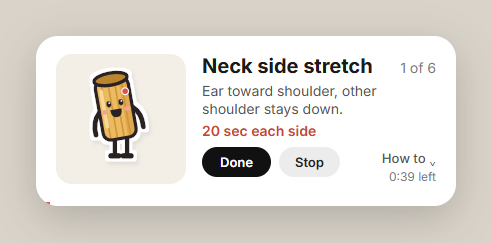
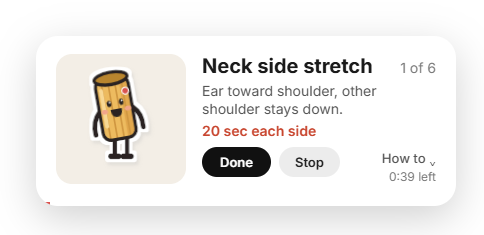
feat: smooth mascot motion and accessible transitions in v1.1.0

diff --git a/renderer/mascot.js b/renderer/mascot.js
@@ -6,7 +6,19 @@
   if (typeof document !== 'undefined' && !document.getElementById('noodle-mascot-css')) {
     const s = document.createElement('style');
     s.id = 'noodle-mascot-css';
-    s.textContent = '@keyframes noodleWave{from{transform:rotate(-12deg)}to{transform:rotate(14deg)}}.wavearm{animation:noodleWave .7s steps(2,end) infinite alternate}';
+    s.textContent = `
+      .mascot{overflow:visible}.mascot .motion-root{transform-box:fill-box;transform-origin:center bottom;animation:noodleBreathe 3.6s ease-in-out infinite}
+      .mascot .eyes{transform-box:fill-box;transform-origin:center;animation:noodleBlink 5.4s ease-in-out infinite}
+      .mascot.explicit-blink .eyes{animation:none}.mascot .wavearm{transform-box:view-box;transform-origin:var(--wave-origin,center);animation:noodleWave .82s cubic-bezier(.42,0,.25,1) infinite alternate}
+      .mascot.pose-walk .walk-arm-left,.mascot.pose-walk .walk-leg-right{transform-box:fill-box;transform-origin:top center;animation:noodleWalk .72s ease-in-out infinite alternate}
+      .mascot.pose-walk .walk-arm-right,.mascot.pose-walk .walk-leg-left{transform-box:fill-box;transform-origin:top center;animation:noodleWalk .72s ease-in-out infinite alternate-reverse}
+      .mascot.pose-walk .motion-root{animation:noodleWalkBob .72s ease-in-out infinite alternate}.mascot .pose-body{transform-box:view-box;transform-origin:100px 144px}.mascot.pose-neck_side .motion-root,.mascot.pose-doorway .motion-root{animation:none}.mascot.pose-neck_side .pose-body{animation:noodleNeck 3.4s ease-in-out infinite alternate}
+      .mascot.pose-chin_tuck .face-wrap{transform-box:fill-box;transform-origin:center;animation:noodleChin 2.5s ease-in-out infinite}.mascot.pose-doorway .pose-body{animation:noodleLean 3s ease-in-out infinite}
+      @keyframes noodleWave{from{transform:rotate(-14deg)}to{transform:rotate(16deg)}}@keyframes noodleBreathe{0%,100%{transform:translateY(0) scaleY(1)}50%{transform:translateY(1px) scaleY(1.018)}}
+      @keyframes noodleBlink{0%,44%,48%,100%{transform:scaleY(1)}46%{transform:scaleY(.08)}}@keyframes noodleWalk{from{transform:rotate(-17deg)}to{transform:rotate(17deg)}}@keyframes noodleWalkBob{from{transform:translateY(0) rotate(-1deg)}to{transform:translateY(3px) rotate(1deg)}}
+      @keyframes noodleNeck{from{transform:rotate(-10deg)}to{transform:rotate(-6deg)}}@keyframes noodleChin{0%,34%,100%{transform:translateY(0)}50%,70%{transform:translateY(5px) scale(.96,1.04)}}@keyframes noodleLean{0%,100%{transform:rotate(12deg)}50%{transform:rotate(9deg) translateX(2px)}}
+      @media (prefers-reduced-motion:reduce){.mascot *{animation:none!important}.mascot .motion-root{transform:none!important}}
+    `;
     document.head.appendChild(s);
   }
 
@@ -19,14 +31,14 @@
     if (kind === 'blink') {
       eyes = [-ex, ex].map(d => `<path d="M${cx + d - 5} ${cy} Q${cx + d} ${cy + 6} ${cx + d + 5} ${cy}" fill="none" stroke="${INK}" stroke-width="3" stroke-linecap="round"/>`).join('');
     } else {
-      eyes = [-ex, ex].map(d => `<ellipse cx="${cx + d}" cy="${cy}" rx="4" ry="5.5" fill="${INK}"/><circle cx="${cx + d + 1.3}" cy="${cy - 2}" r="1.5" fill="#fff"/>`).join('');
+      eyes = `<g class="eyes">${[-ex, ex].map(d => `<ellipse cx="${cx + d}" cy="${cy}" rx="4" ry="5.5" fill="${INK}"/><circle cx="${cx + d + 1.3}" cy="${cy - 2}" r="1.5" fill="#fff"/>`).join('')}</g>`;
     }
     let mouth;
     if (kind === 'hello') mouth = `<ellipse cx="${cx}" cy="${cy + 18}" rx="6.5" ry="8" fill="${INK}"/>`;
     else if (kind === 'chin_tuck') mouth = `<path d="M${cx - 6} ${cy + 15} Q${cx} ${cy + 20} ${cx + 6} ${cy + 15}" fill="none" stroke="${INK}" stroke-width="3" stroke-linecap="round"/><path d="M${cx - 9} ${cy + 26} Q${cx} ${cy + 31} ${cx + 9} ${cy + 26}" fill="none" stroke="${INK}" stroke-width="2" stroke-linecap="round" opacity=".6"/>`;
     else mouth = `<path d="M${cx - 10} ${cy + 11} H${cx + 10} Q${cx + 10} ${cy + 25} ${cx} ${cy + 25} Q${cx - 10} ${cy + 25} ${cx - 10} ${cy + 11} Z" fill="${INK}"/>`;
     const blush = `<ellipse cx="${cx - 21}" cy="${cy + 13}" rx="6" ry="4" fill="${C.blush}"/><ellipse cx="${cx + 21}" cy="${cy + 13}" rx="6" ry="4" fill="${C.blush}"/>`;
-    return `<g transform="translate(${cx + dx} ${cy}) scale(${s}) translate(${-cx} ${-cy})">${blush}${eyes}${mouth}</g>`;
+    return `<g class="face-wrap"><g transform="translate(${cx + dx} ${cy}) scale(${s}) translate(${-cx} ${-cy})">${blush}${eyes}${mouth}</g></g>`;
   }
 
   function tube(x, w, n) {
@@ -45,7 +57,7 @@
     const view = o.crop ? o.crop.join(' ') : defaultView;
     const filter = o.nosticker ? '' : `<filter id="${id}" x="-25%" y="-25%" width="150%" height="150%"><feMorphology in="SourceAlpha" operator="dilate" radius="5" result="d"/><feFlood flood-color="#fff"/><feComposite in2="d" operator="in" result="w"/><feOffset in="d" dx="4" dy="6" result="o"/><feGaussianBlur in="o" stdDeviation="3" result="b"/><feColorMatrix in="b" type="matrix" values="0 0 0 0 .5 0 0 0 0 .5 0 0 0 0 .5 0 0 0 .32 0" result="sh"/><feMerge><feMergeNode in="sh"/><feMergeNode in="w"/><feMergeNode in="SourceGraphic"/></feMerge></filter>`;
     const size = o.size ? ` width="${o.size}" height="${o.size}"` : ' width="100%" height="100%"';
-    return `<svg xmlns="http://www.w3.org/2000/svg" viewBox="${view}"${size} style="display:block;overflow:visible"><defs>${filter}</defs><g${o.nosticker ? '' : ` filter="url(#${id})"`}>${inner}</g></svg>`;
+    return `<svg class="mascot pose-${o.motionPose || 'idle'}${o.explicitBlink ? ' explicit-blink' : ''}" xmlns="http://www.w3.org/2000/svg" viewBox="${view}"${size} style="display:block;overflow:visible"><defs>${filter}</defs><g${o.nosticker ? '' : ` filter="url(#${id})"`}><g class="motion-root">${inner}</g></g></svg>`;
   }
 
   function toni(pose = 'idle', faceKind = 'smile', o = {}) {
@@ -56,7 +68,7 @@
     let pre = '', legs = legsStd(), grp = limb(armL) + limb(armR) + front, tr = '', post = '';
     switch (pose) {
       case 'wave':
-        grp = limb(armL) + `<g class="wavearm" style="transform-origin:130px 92px">${limb('M130 92 Q152 84 152 54')}</g>` + front; break;
+        grp = limb(armL) + `<g class="wavearm" style="--wave-origin:130px 92px">${limb('M130 92 Q152 84 152 54')}</g>` + front; break;
       case 'doorway':
         pre = `<line x1="166" y1="20" x2="166" y2="180" stroke="#CFC8BC" stroke-width="7" stroke-linecap="round"/>`;
         tr = 'rotate(12 100 144)';
@@ -76,14 +88,14 @@
         break;
       case 'walk': {
         const b = tube(78, 44, 3) + face(faceKind, 112, 80, 0.8, -6);
-        legs = limb('M98 144 L78 170', 8) + limb('M104 144 L128 168', 8) + limb('M68 172 h14', 10) + limb('M122 171 h14', 10);
-        grp = limb('M100 94 L80 114') + limb('M100 94 L122 110') + b;
+        legs = `<g class="walk-leg-left">${limb('M98 144 L78 170', 8) + limb('M68 172 h14', 10)}</g><g class="walk-leg-right">${limb('M104 144 L128 168', 8) + limb('M122 171 h14', 10)}</g>`;
+        grp = `<g class="walk-arm-left">${limb('M100 94 L80 114')}</g><g class="walk-arm-right">${limb('M100 94 L122 110')}</g>` + b;
         tr = 'rotate(4 100 144)';
         pre = [88, 104, 120].map((y, i) => `<path d="M${14 + i * 6} ${y} h${28 - i * 6}" stroke="#BDB6AA" stroke-width="4" stroke-linecap="round"/>`).join('');
         break;
       }
     }
-    return wrap(`${pre}${legs}<g${tr ? ` transform="${tr}"` : ''}>${grp}</g>${post}`, o, '0 0 200 220');
+    return wrap(`${pre}${legs}<g class="pose-body"${tr ? ` transform="${tr}"` : ''}>${grp}</g>${post}`, Object.assign({}, o, { motionPose: pose, explicitBlink: faceKind === 'blink' }), '0 0 200 220');
   }
 
   const SY = { body: '#F6DA7A', light: '#FCEDB0', shade: '#E8BE4A' };
@@ -92,10 +104,10 @@
     const curl = 'M100 48 C100 26 128 22 126 40 C125 52 110 50 114 40';
     const stroke = (d, w, c, t = '') => `<path d="${d}"${t} fill="none" stroke="${c}" stroke-width="${w}" stroke-linecap="round" stroke-linejoin="round"/>`;
     let arms = limb('M84 104 Q62 112 62 134') + limb('M116 104 Q138 112 138 134');
-    if (pose === 'wave') arms = limb('M84 104 Q62 112 62 134') + `<g class="wavearm" style="transform-origin:116px 104px">${limb('M116 104 Q142 96 142 66')}</g>`;
+    if (pose === 'wave') arms = limb('M84 104 Q62 112 62 134') + `<g class="wavearm" style="--wave-origin:116px 104px">${limb('M116 104 Q142 96 142 66')}</g>`;
     const body = stroke(strand, 46, INK) + stroke(curl, 22, INK) + stroke(strand, 34, SY.body) + stroke(curl, 10, SY.body) +
       stroke(strand, 4, SY.light, ' transform="translate(-9 0)"') + stroke(strand, 5, SY.shade, ' transform="translate(11 6)"') + face(faceKind, 100, 94, 0.72);
-    return wrap(legsStd(92, 108, 148) + arms + body, o, '0 0 200 220');
+    return wrap(legsStd(92, 108, 148) + arms + body, Object.assign({}, o, { motionPose: pose, explicitBlink: faceKind === 'blink' }), '0 0 200 220');
   }
 
   g.Noodle = { toni, sammy, C, SY };

diff --git a/renderer/card.js b/renderer/card.js
@@ -1,49 +1,75 @@
 const $ = id => document.getElementById(id);
 const api = window.noodle || { onPresent() {}, onFinish() {}, onHide() {}, done() {}, stop() {}, resize() {} };
-let run = 0, tick = null, typing = null;
+let run = 0, tick = null, typing = null, typeDone = null, swapTimers = [];
+const reducedMotion = window.matchMedia && window.matchMedia('(prefers-reduced-motion: reduce)').matches;
 
 function setTile(pose, face) { $('tile').innerHTML = Noodle.toni(pose, face || 'smile'); }
-function swapTile(pose, face) { const t = $('tile'); t.style.opacity = 0; setTimeout(() => { setTile(pose, face); t.style.opacity = 1; }, 180); }
+function clearPendingVisuals() {
+  swapTimers.forEach(clearTimeout); swapTimers = [];
+  $('tile').classList.remove('swapping');
+  if (typing) clearInterval(typing); typing = null;
+  if (typeDone) { typeDone(); typeDone = null; }
+}
+function swapTile(pose, face, token = run) {
+  const t = $('tile'); t.classList.add('swapping');
+  const timer = setTimeout(() => {
+    swapTimers = swapTimers.filter(x => x !== timer);
+    if (token !== run) return;
+    setTile(pose, face); t.classList.remove('swapping');
+  }, reducedMotion ? 0 : 180);
+  swapTimers.push(timer);
+}
 function fmt(s) { return Math.floor(s / 60) + ':' + String(s % 60).padStart(2, '0'); }
 const wait = ms => new Promise(r => setTimeout(r, ms));
 
+function setEntry(title, subtitle = '') { $('entry').querySelector('.entry-title').textContent = title; $('entry').querySelector('.entry-sub').textContent = subtitle; }
 function typeText(text) {
-  clearInterval(typing); const el = $('entry'); el.textContent = ''; let i = 0;
-  return new Promise(res => { typing = setInterval(() => { el.textContent = text.slice(0, ++i); if (i >= text.length) { clearInterval(typing); res(); } }, 40); });
+  clearPendingVisuals(); const el = $('entry').querySelector('.entry-title'); el.textContent = ''; let i = 0;
+  if (reducedMotion) { setEntry(text, 'A short reset for your body.'); return Promise.resolve(); }
+  return new Promise(res => {
+    typeDone = () => res();
+    typing = setInterval(() => { el.textContent = text.slice(0, ++i); if (i >= text.length) { clearInterval(typing); typing = null; typeDone = null; res(); } }, 32);
+  });
 }
 
-function showContent(ex, counter) {
+function showContent(ex, counter, token = run) {
+  if (token !== run) return;
   clearInterval(tick);
   $('title').textContent = ex.title; $('counter').textContent = counter;
   $('instr').textContent = ex.instruction; $('dur').textContent = ex.duration_label;
   $('steps').innerHTML = (ex.how_to || []).map(s => '<li>' + s + '</li>').join('');
   $('card').classList.remove('open');
   $('entry').style.opacity = 0; $('content').style.opacity = 1;
-  swapTile(ex.pose, 'smile');
+  swapTile(ex.pose, 'smile', token);
   const bar = $('bar'); bar.style.animation = 'none'; void bar.offsetWidth;
   bar.style.animation = 'fill ' + ex.duration_sec + 's linear forwards';
   const end = Date.now() + ex.duration_sec * 1000;
-  const upd = () => { const left = Math.max(0, Math.ceil((end - Date.now()) / 1000)); $('left').textContent = fmt(left) + ' left'; if (left <= 0) { clearInterval(tick); api.done(); } };
+  const upd = () => { if (token !== run) return; const left = Math.max(0, Math.ceil((end - Date.now()) / 1000)); $('left').textContent = fmt(left) + ' left'; if (left <= 0) { clearInterval(tick); api.done(); } };
   upd(); tick = setInterval(upd, 250);
 }
 
-api.onPresent(async ({ ex, counter, first }) => {
-  const my = ++run; clearInterval(tick);
+async function presentCard({ ex, counter, first }) {
+  const my = ++run; clearInterval(tick); clearPendingVisuals();
   if (first) {
     const c = $('card'); c.classList.remove('in', 'open'); void c.offsetWidth;
     $('content').style.opacity = 0; $('entry').style.opacity = 1; $('bar').style.animation = 'none';
     setTile('wave', 'hello'); c.classList.add('in');
-    await typeText("It's time"); if (my !== run) return;
-    await wait(1000); if (my !== run) return;
-    showContent(ex, counter);
-  } else showContent(ex, counter);
-});
-api.onFinish(() => {
-  run++; clearInterval(tick); $('bar').style.animation = 'none';
-  $('content').style.opacity = 0; $('entry').style.opacity = 1; $('entry').textContent = 'Nice! Back to work.';
-  swapTile('wave', 'hello');
-});
-api.onHide(() => { run++; clearInterval(tick); clearInterval(typing); $('card').classList.remove('in'); });
+    setEntry('', 'A short reset for your body.');
+    await typeText("It's time to stretch!"); if (my !== run) return;
+    if (!reducedMotion) await wait(850); if (my !== run) return;
+    showContent(ex, counter, my);
+  } else showContent(ex, counter, my);
+}
+function finishCard() {
+  run++; clearInterval(tick); clearPendingVisuals(); $('bar').style.animation = 'none';
+  $('content').style.opacity = 0; $('entry').style.opacity = 1; setEntry('Nice! Back to work.', 'Your body will thank you.');
+  swapTile('wave', 'hello', run);
+}
+function hideCard() { run++; clearInterval(tick); clearPendingVisuals(); $('card').classList.remove('in'); }
+api.onPresent(presentCard);
+api.onFinish(finishCard);
+api.onHide(hideCard);
+if (new URLSearchParams(location.search).has('preview')) window.__noodlePreview = { present: presentCard, finish: finishCard, hide: hideCard };
 
 $('done').onclick = () => api.done();
 $('stop').onclick = () => api.stop();

diff --git a/renderer/card.html b/renderer/card.html
@@ -3,15 +3,16 @@
 <link rel="stylesheet" href="https://fonts.googleapis.com/css2?family=Inter:wght@400;500;600;700&display=swap">
 <style>
 html,body{margin:0;background:transparent;overflow:hidden;font-family:Inter,"Segoe UI",sans-serif;user-select:none}
-#card{position:absolute;left:36px;top:36px;width:420px;min-height:170px;box-sizing:border-box;background:#fff;border-radius:22px;box-shadow:0 12px 40px rgba(0,0,0,.18);padding:18px 20px 22px;overflow:hidden;opacity:0;transform:translateX(40px);transition:opacity .35s ease,transform .35s cubic-bezier(.2,.8,.2,1)}
+#card{position:absolute;left:36px;top:36px;width:420px;min-height:170px;box-sizing:border-box;background:#fff;border-radius:22px;box-shadow:0 12px 40px rgba(0,0,0,.18);padding:18px 20px 22px;overflow:hidden;opacity:0;transform:translateX(40px) scale(.98);transition:opacity .35s ease,transform .42s cubic-bezier(.2,.8,.2,1)}
 #card.in{opacity:1;transform:none}
 .grid{display:grid;grid-template-columns:130px 1fr;gap:16px}
-#tile{width:130px;height:130px;border-radius:16px;background:#F3EEE6;display:flex;align-items:center;justify-content:center;transition:opacity .2s}
+#tile{width:130px;height:130px;border-radius:16px;background:#F3EEE6;display:flex;align-items:center;justify-content:center;transition:opacity .22s ease,transform .22s ease}
+#tile.swapping{opacity:0;transform:scale(.96)}
 #tile svg{width:112px;height:123px}
 .right{position:relative;min-height:130px}
 .content,.entry{transition:opacity .45s ease}
 .content{display:flex;flex-direction:column;gap:4px;opacity:0}
-.entry{position:absolute;inset:0;pointer-events:none;display:flex;align-items:center;font-size:20px;font-weight:700;color:#1A1A1A}
+.entry{position:absolute;inset:0;pointer-events:none;display:flex;flex-direction:column;justify-content:center;align-items:flex-start;color:#1A1A1A}.entry-title{font-size:20px;font-weight:700}.entry-sub{font-size:13px;font-weight:500;color:#7A7A7A;margin-top:5px}
 .row1{display:flex;justify-content:space-between;align-items:baseline;gap:8px}
 #title{font-size:20px;font-weight:700;color:#1A1A1A;white-space:nowrap;overflow:hidden;text-overflow:ellipsis}
 #counter{font-size:14px;color:#7A7A7A;white-space:nowrap}
@@ -30,10 +31,11 @@ button{font:inherit;font-size:13px;font-weight:600;border:0;border-radius:999px;
 .open #steps{display:block}
 #bar{position:absolute;left:0;bottom:0;height:4px;width:0;background:#D9534F}
 @keyframes fill{from{width:0}to{width:100%}}
+@media (prefers-reduced-motion:reduce){#card,#tile,.content,.entry{transition:none!important}#bar{animation:none!important}}
 </style></head>
 <body>
 <div id="card"><div class="grid"><div id="tile"></div>
-<div class="right"><div class="entry" id="entry"></div>
+<div class="right"><div class="entry" id="entry"><div class="entry-title"></div><div class="entry-sub"></div></div>
 <div class="content" id="content">
 <div class="row1"><span id="title"></span><span id="counter"></span></div>
 <div id="instr"></div><div id="dur"></div>

diff --git a/tests/motion-check.js b/tests/motion-check.js
@@ -1,0 +1,32 @@
+const { app, BrowserWindow } = require('electron');
+const path = require('path');
+const fs = require('fs');
+app.setName('noodle-motion-check');
+app.setPath('userData', path.join(__dirname, '..', '.test-profile'));
+
+const fail = message => { console.error(message); process.exitCode = 1; };
+async function inspect() {
+  await app.whenReady();
+  const win = new BrowserWindow({ show: false, webPreferences: { contextIsolation: true } });
+  await win.loadFile(path.join(__dirname, '..', 'renderer', 'card.html'));
+  const result = await win.webContents.executeJavaScript(`(() => {
+    const host = document.createElement('div'); host.innerHTML = Noodle.toni('walk', 'smile'); document.body.append(host);
+    const doorway = document.createElement('div'); doorway.innerHTML = Noodle.toni('doorway', 'smile'); document.body.append(doorway);
+    const wave = Noodle.toni('wave', 'hello'); const staticBlink = Noodle.toni('idle', 'blink');
+    const motion = host.querySelector('.motion-root'); const limb = host.querySelector('.walk-leg-left');
+    return { motion: getComputedStyle(motion).animationName, limb: getComputedStyle(limb).animationName,
+      wave: wave.includes('steps('), blink: staticBlink.includes('explicit-blink'), intro: document.querySelector('.entry-title').textContent,
+      doorwayRoot: getComputedStyle(doorway.querySelector('.motion-root')).animationName, doorwayBody: getComputedStyle(doorway.querySelector('.pose-body')).animationName };
+  })()`);
+  win.destroy(); return result;
+}
+
+(async () => {
+  const normal = await inspect();
+  if (normal.motion !== 'noodleWalkBob' || normal.limb !== 'noodleWalk' || normal.doorwayRoot !== 'none' || normal.doorwayBody !== 'noodleLean' || normal.wave || !normal.blink) fail('normal motion layers were not rendered as expected');
+  const css = fs.readFileSync(path.join(__dirname, '..', 'renderer', 'mascot.js'), 'utf8');
+  if (!css.includes('@media (prefers-reduced-motion:reduce)') || !css.includes('animation:none!important')) fail('reduced motion fallback is missing');
+  fs.writeFileSync(path.join(__dirname, '..', '.motion-check-result.json'), JSON.stringify({ normal, reducedMotionRule: true }));
+  console.log('motion checks passed');
+  app.exit(process.exitCode || 0);
+})().catch(error => { console.error(error); app.exit(1); });

diff --git a/tests/render-preview.js b/tests/render-preview.js
@@ -1,0 +1,20 @@
+const { app, BrowserWindow } = require('electron');
+const path = require('path');
+const fs = require('fs');
+app.setName('noodle-motion-preview');
+app.setPath('userData', path.join(__dirname, '..', '.preview-profile'));
+const delay = ms => new Promise(resolve => setTimeout(resolve, ms));
+
+(async () => {
+  await app.whenReady();
+  const win = new BrowserWindow({ width: 500, height: 300, show: false, transparent: false, webPreferences: { contextIsolation: true } });
+  await win.loadFile(path.join(__dirname, '..', 'renderer', 'card.html'), { query: { preview: '1' } });
+  const out = path.join(__dirname, '..', 'screenshots'); const docs = path.join(__dirname, '..', 'docs', 'images'); fs.mkdirSync(out, { recursive: true });
+  const capture = async (name, docName) => { const png = (await win.webContents.capturePage()).toPNG(); fs.writeFileSync(path.join(out, name), png); if (docName) fs.writeFileSync(path.join(docs, docName), png); };
+  const ex = { title: 'Neck side stretch', instruction: 'Ear toward shoulder, other shoulder stays down.', duration_sec: 40, duration_label: '20 sec each side', pose: 'neck_side', how_to: [] };
+  await win.webContents.executeJavaScript(`window.__noodlePreview.present(${JSON.stringify({ ex, counter: '1 of 6', first: true })})`);
+  await delay(320); await capture('motion-entry.png', 'entry.png');
+  await delay(1500); await capture('motion-exercise.png', 'card.png');
+  await win.webContents.executeJavaScript('window.__noodlePreview.finish()'); await delay(250); await capture('motion-success.png');
+  win.destroy(); app.quit();
+})().catch(error => { console.error(error); app.quit(); process.exitCode = 1; });

diff --git a/README.md b/README.md
@@ -8,7 +8,9 @@ A small Windows tray app that brings up a friendly, timed stretch-break card. It
   <img src="docs/images/howto.png" alt="Noodle's expanded how-to instructions" width="492">
 </p>
 
-The reminder begins with an “It’s time” prompt, then opens the timed card and its optional how-to steps.
+<p align="center"><img src="docs/images/motion.gif" alt="Noodle wave motion preview" width="260"></p>
+
+The reminder begins with an “It’s time to stretch!” prompt and a short subtitle, then opens the timed card and its optional how-to steps. Toni waves, breathes, blinks, walks, and makes small controlled exercise movements; the card uses smooth entry and pose transitions. When Windows asks for reduced motion, Noodle keeps clear static poses and skips the typewriter effect.
 
 ## What it does
 
@@ -46,6 +48,7 @@ Toni and Sammy, the two locally rendered mascot characters, are built from the a
 - `exercises.json` defines the title, instruction, duration, mascot pose, and expandable steps. The app reads it at each session.
 - `config.json` controls the cooldown, start delay, local port, walk cadence, screen-time reminder, and idle reset. The supplied defaults set `screen_time_min` to `30` and `idle_reset_min` to `5`.
 - `npm run screenshots` writes fresh PNGs to `screenshots/`.
+- `npm test` checks the renderer's live animation layers and its reduced-motion fallback.
 
 ## Optional Claude Code hooks
 
